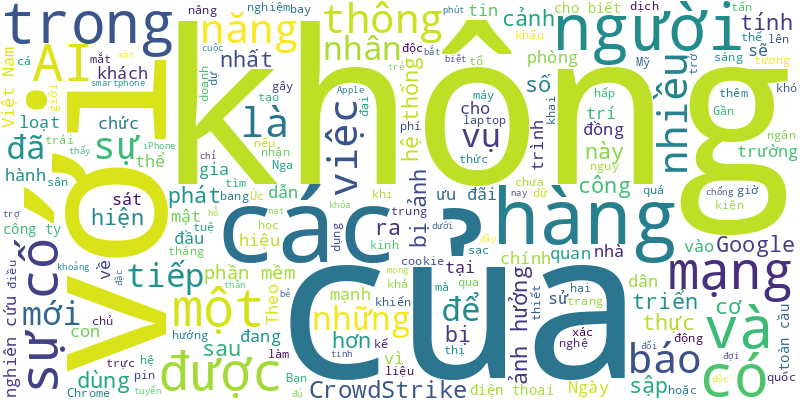
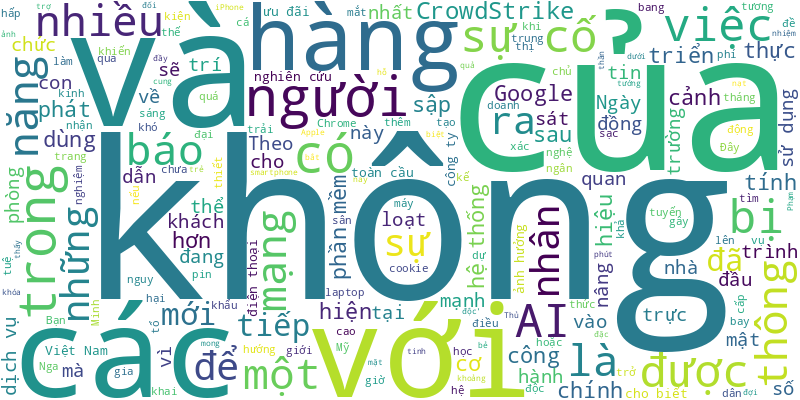
🍀 = 20%

diff --git a/README.md b/README.md
@@ -1,6 +1,14 @@
 # Tuoi Tre RSS 
 
 ## Giáo dục 
+- Từ nay đến năm 2030, Việt Nam sẽ đầu tư khoảng 26.000 tỉ đồng để đào tạo 50.000 kỹ sư bán dẫn. Và các trường đại học năm nay đồng loạt mở ngành thiết kế vi mạch, bán dẫn.
+- Những năm qua tại Đà Nẵng đã có hàng loạt ngôi trường mới có thiết kế đẹp ra đời. Những ngôi trường mang tính thẩm mỹ có tác dụng kích thích năng khiếu sáng tạo và cảm hứng học tập cho học sinh.
+- Ông Cao Thanh Bình, trưởng Ban Văn hóa xã hội (Hội đồng nhân dân TP.HCM), cho biết cơ quan này đã kết nối với cơ quan đồng cấp tại Hà Nội để phối hợp yêu cầu các cơ quan chức năng giải quyết cho bé N. đi học trở lại sau thời gian dài bé nghỉ học.
+- Các doanh nghiệp lĩnh vực vi mạch, bán dẫn trong khu vực đang có nhu cầu nhân lực rất lớn, nếu TP Đà Nẵng không có những chính sách thu hút nhân lực thì sẽ dễ chảy máu chất xám.
+- Nhiều cha mẹ hiện nay tư vấn chọn nghề cho con theo tiêu chí nghề nào giàu hơn, nghề nào tốt hơn. Theo GS Phan Văn Trường, đó là một sai lầm của cha mẹ khiến tương lai con cái nhiều bất ổn.
+- N.N.N. (ngụ quận 7, TP.HCM) năm nay gần 12 tuổi, đáng lẽ sẽ bước vào lớp 7 như hầu hết các bạn cùng trang lứa khác. Nhưng trước thềm năm học mới 2024-2025, N. tiếp tục có nguy cơ bị thất học vì… cha mẹ tranh chấp quyền nuôi con, 'giam' học bạ.
+- Một giảng viên Phổ thông Cao đẳng FPT Polytechnic, TP.HCM vừa bị buộc thôi việc vì có những lời nói không phù hợp với sinh viên.
+- 'Công ty chúng tôi đang thu hút nhân lực ngành bán dẫn ở nước ngoài, trong đó có Việt Nam đến làm việc', bà Lý Huệ Linh - phó tổng giám đốc phụ trách nhân sự Công ty Tekcore (Nam Đầu, Đài Loan), khẳng định.
 - Nước lũ vừa rút khỏi sân trường, các thầy cô nhanh chóng vào các vùng bị cô lập bằng bè mảng tự chế để dọn trường lớp, bếp ăn bán trú khi khai giảng sắp cận kề.
 - Tuyến đường ven biển Độc Lập, TP Tuy Hòa vừa được tỉnh Phú Yên quy hoạch với nhiều công trình điểm nhấn, không gian công cộng.
 - 'Nghe tin nước lũ dâng cao tới sân trường, cả đêm tôi không ngủ được. Hôm sau tới trường đã thấy nước lên cao gần nửa phòng học, tôi quyết định bơi vào trường kiểm tra từng phòng học xem có thể vớt vát gì không', thầy Việt kể lại.
@@ -23,48 +31,41 @@
 - Sở Giáo dục và Đào tạo Hà Nội công bố đề minh họa các môn thi vào lớp 10 năm học 2025-2026. Đây là kỳ thi tuyển sinh lớp 10 đầu tiên theo chương trình mới.
 - Ngày 29-8, ông Huỳnh Ngọc Nguyên - phó chủ tịch UBND huyện Vĩnh Thuận, tỉnh Kiên Giang - ký văn bản gửi Phòng Giáo dục và Đào tạo huyện về việc “khai giảng năm học mới và tổ chức giảng dạy, học tập của Trường THCS Thị Trấn”.
 - Dạy thêm, học thêm một khi trở thành nhu cầu thực tế thì mọi việc cấm đoán hay nới lỏng đều có thể mang lại những hệ quả tiêu cực.
-- TS Nguyễn Bá Cường - giám đốc Nhà xuất bản Đại học Sư phạm - đề xuất chính sách miễn học phí cho sinh viên ngành xuất bản, phát hành, thậm chí có phụ cấp như sinh viên sư phạm.
-- Đến tối 27-8, vẫn còn hơn 360 học sinh Trường Quốc tế Mỹ chưa chuyển trường trong số khoảng hơn 1.000 học sinh của trường này.
-- Lần đầu tiên, 400 sinh viên Trường đại học Văn Lang sẽ học thẩm định tin tức, nhiếp ảnh tại Tòa soạn báo Tuổi Trẻ.
-- Nhiều học sinh khối 10 Trường THPT chuyên Trần Đại Nghĩa đã "bất ngờ" với màn chào đón ấm áp, đầy trải nghiệm mà các học sinh khóa trên dành cho mình trong ngày đầu tựu trường.
-- Chương trình cử nhân ngành khoa học máy tính của Trường Đại học Quốc tế Sài Gòn (SIU) được Ủy ban kiểm định các chương trình máy tính (CAC) của ABET công nhận đạt kiểm định quốc tế.
-- Theo thống kê mới nhất, 20.000 trường mầm non ở nước này đã phải đóng cửa vì không có học sinh, khiến giới chức Trung Quốc đang “sốt vó” tìm kiếm giải pháp cấp bách khi lực lượng lao động giảm do tỉ lệ sinh giảm.
-- Nhiều ý kiến cho rằng học thêm là nhu cầu có thật của học sinh, nhưng không ít ý kiến nói khó kiểm soát tiêu cực khi ‘mở cửa’ dạy thêm.
-- Hiện toàn tỉnh Đồng Tháp còn thiếu hơn 1.300 giáo viên, thiếu nhiều nhất là giáo viên mầm non và tiểu học. Năm học này dự kiến miễn học phí cho học sinh mầm non, giảm 50% học phí cấp trung học cơ sở.
 ![Edu](Edu.png)
 ## Thời Sự 
-- Một căn nhà trên đường Quang Trung, quận Gò Vấp, TP.HCM bị cháy lúc rạng sáng 31-8. Ba người may mắn thoát nạn.
-- Một dự án đoạn cao tốc dài 15,3km nối TP.HCM và Bình Dương (trùng với đường Mỹ Phước - Tân Vạn) đang được kỳ vọng 'giải cứu' cho dự án vành đai 3 TP.HCM.
-- Từ 5h sáng nay (ngày 31-8), Chủ tịch UBND TP.HCM Phan Văn Mãi cùng 3.000 người dân TP.HCM đã tham gia chương trình đi bộ đồng hành đóng góp quỹ 'Vì người nghèo'.
-- Chung cư ở huyện Thanh Trì xảy ra cháy lúc nửa đêm. Công an Hà Nội đã điều động 6 xe cứu hỏa cùng hàng chục cảnh sát đến dập lửa, cứu nạn.
-- Nước lũ vừa rút khỏi sân trường, các thầy cô nhanh chóng vào các vùng bị cô lập bằng bè mảng tự chế để dọn trường lớp, bếp ăn bán trú khi khai giảng sắp cận kề.
-- Tin tức đáng chú ý: Sớm quyết định phương án đầu tư mở rộng đoạn cao tốc TP.HCM - Long Thành; Năm 2025 dự kiến Thừa Thiên Huế trở thành thành phố trực thuộc trung ương; Nghiên cứu sửa đổi Luật An toàn thực phẩm...
-- Dự báo hôm nay 31-8, thời tiết Bắc Bộ tiếp tục có mưa trong ngày, Trung Bộ nắng nóng giảm, Nam Bộ chiều mưa dông.
-- Văn phòng Chính phủ vừa có các văn bản giới thiệu chữ ký của ba tân phó thủ tướng Chính phủ: ông Nguyễn Hòa Bình, ông Hồ Đức Phớc và ông Bùi Thanh Sơn.
-- Lần đầu tiên Tỉnh ủy Khánh Hòa tổ chức hội nghị bàn về các vấn đề văn hóa của tỉnh với quy mô lớn, tổng kết 10 năm thực hiện nghị quyết số 33/NQ-TW, nhằm thực hiện mục tiêu xây dựng Khánh Hòa là nơi đáng sống.
-- Thủ tướng Phạm Minh Chính vừa ký công điện số 84 ngày 30-8 về tăng cường công tác bảo đảm an ninh, trật tự, an toàn giao thông, phòng cháy, chữa cháy và an toàn thực phẩm dịp nghỉ lễ Quốc khánh 2-9.
-- Diện tích toàn tỉnh Thừa Thiên Huế hiện hữu được công nhận đạt tiêu chí đô thị loại I, sẵn sàng để tiến lên trở thành thành phố trực thuộc trung ương trong tương lai.
-- Dịp nghỉ lễ Quốc khánh 2-9, thời tiết miền Bắc có mưa dông hai ngày đầu nghỉ lễ, Trung Bộ không còn nắng nóng, Tây Nguyên và Nam Bộ mưa dông vào chiều tối.
-- Nhân dịp chào mừng 79 năm Quốc khánh 2-9, Thảo cầm viên Sài Gòn (TP.HCM) tổ chức triển lãm ảnh Hướng về Trường Sa - Nhà giàn thân yêu.
-- Sở Giao thông vận tải TP.HCM vừa thông báo cấm xe tại hàng chục tuyến đường khu vực trung tâm phục vụ bắn pháo hoa đêm lễ 2-9.
-- Chiều tối 30-8, các cửa ngõ tại TP.HCM bắt đầu đông hơn vì nhiều người tranh thủ sau giờ làm để về quê, đi du lịch. Ngày mai bắt đầu lịch nghỉ lễ dịp 2-9.
-- Đắk Lắk giao doanh nghiệp 171ha rừng và đất lâm nghiệp để thực hiện dự án nuôi bò nhưng chuồng bò đang bỏ hoang, tình trạng mất rừng liên tục xảy ra.
-- Chủ đầu tư dự án du lịch Ninh Chữ Sailing Bay (Ninh Thuận) có tổng vốn đầu tư hơn 4.779 tỉ đồng vừa có công văn gửi Sở Kế hoạch và Đầu tư tỉnh đề nghị hướng dẫn thủ tục chấm dứt hoạt động dự án.
-- Ngày 30-8, Ủy ban Kiểm tra Tỉnh ủy Bình Thuận thông báo kết quả kỳ họp thứ 39 về việc xem xét, đề nghị thi hành kỷ luật ông Nguyễn Ngọc - cựu phó chủ tịch UBND tỉnh - cùng nhiều cựu cán bộ khác.
-- Ngay đầu giờ chiều 30-8, trời nắng nóng nhưng nhiều tuyến đường ở Hà Nội đã lâm vào cảnh ùn tắc kéo dài do người dân về quê, đi du lịch dịp nghỉ lễ.
-- Tỉnh Lâm Đồng ấn định 140 ngày tập trung tháo gỡ khó khăn, hoàn tất thủ tục đầu tư hai cao tốc Tân Phú - Bảo Lộc và Bảo Lộc - Liên Khương nối Đà Lạt đến TP.HCM.
-- Chuyến bay Vietjet Air, mang số hiệu VJ3321 đưa gần 300 khách Đài Loan đáp xuống sân bay quốc tế Phú Quốc chiều 30-8 để bắt đầu chuyến nghỉ lễ 2-9 ở hòn đảo xinh đẹp này.
-- Đường Hiệp Thành 43 ở quận 12, TP.HCM nhỏ hẹp, ngập nước nhiều năm nay đã hoàn thành nâng cấp, mở rộng, giúp việc đi lại của người dân thuận tiện hơn.
-- Liên quan vụ người phụ nữ tử vong vì tai nạn giao thông, trong máu có nồng độ cồn, tòa đã tuyên án người gây ra tai nạn.
-- Ông Nguyễn Huỳnh Đạt Nhân - giám đốc Công ty TNHH MTV nông thủy sản Tây Nam và một cựu cán bộ ngân hàng kháng cáo bản án của tòa Cần Thơ.
-- Tỉnh Lâm Đồng yêu cầu ngưng toàn bộ hoạt động sửa đường đến hết lễ Quốc khánh 2-9 để đảm bảo thuận lợi cho du khách đi du lịch.
-- Để giảm đi những tai nạn thương tâm, các trung tâm lái xe phải tăng cường dạy đạo đức cho người học.
-- Ngày 30-8, Ban Quản lý đường sắt đô thị TP.HCM cho biết các kỹ thuật viên lái tàu metro số 1 đã chạy thử nghiệm toàn tuyến.
-- Liên quan đến vụ nổ súng bắn hai vợ chồng ở Đồng Nai vào sáng 30-8 tại TP Biên Hòa, các bác sĩ cho hay người chồng đang trong tình trạng nguy kịch.
-- Cơ quan chức năng ghi nhận trên đèo Bảo Lộc (quốc lộ 20, đoạn qua tỉnh Lâm Đồng) có tình trạng đá lăn, chảy đất, tiềm ẩn sạt lở nguy hiểm.
-- Bà Sểnh Vlog (tên thật Triệu Thị L., 54 tuổi, ở thị trấn Lăng Can, huyện Lâm Bình, tỉnh Tuyên Quang) không may bị lũ cuốn tử vong sáng 30-8.
+- Từ ngày 1-9, chính thức áp dụng quy định mới về tạm ngừng lưu thông, phong tỏa, niêm phong, tạm giữ và xử lý với tiền, tài sản liên quan khủng bố, tài trợ khủng bố.
+- Nằm khiêm tốn sát đường ray và quốc lộ 1 ở phía bắc đèo Cả (thị xã Đông Hòa, tỉnh Phú Yên) có một tấm bia vừa phục dựng cách đây chưa lâu.
+- Đồng Tháp là một trong những tỉnh tiên phong trong lĩnh vực chuyển đổi số ở khu vực Đồng bằng sông Cửu Long, lấy chính quyền số, kinh tế số, xã hội số làm trụ cột.
+- UBND phường 2, TP Sóc Trăng quản lý 2 chợ là chợ phường 2 và chợ Khánh Hùng với tổng số 302 sạp và 51 ki ốt. Do quản lý lỏng lẻo nên để xảy ra nhiều sai phạm về tài chính.
+- Hôm nay 1-9, thời tiết cả nước đều có mưa, có nơi mưa vừa, mưa to đến rất to. Vài nơi hửng nắng thời gian ngắn trong ngày.
+- Ghen tuông vì bạn gái đi sống với người đàn ông khác, Nguyễn Văn Linh cùng ba đồng phạm bàn bạc nhét ma túy vào cốp xe máy của tình địch nhằm "đẩy" anh này vào tù.
+- Quỹ Giải thưởng Ramon Magsaysay vừa công bố GS Nguyễn Thị Ngọc Phượng là một trong năm chủ nhân của mùa giải năm 2024.
+- Ủy ban An toàn giao thông quốc gia đánh giá nguyên nhân ùn tắc tại cửa ngõ hai thành phố lớn trong ngày đầu nghỉ lễ là do lưu lượng tham gia giao thông tăng đột biến, vượt quá năng lực của hệ thống kết cấu hạ tầng.
+- Ngày 31-8, Công an tỉnh Tây Ninh có quyết định khởi tố vụ án, khởi tố bắt tạm giam 45 bị can liên quan đến vụ dùng súng, cây chĩa 3 răng giải quyết mâu thuẫn gây chết người.
+- Chiều 31-8, lượng xe cộ di chuyển trên đường Nguyễn Thị Định vào cảng và phà Cát Lái đông đúc nên xảy ra tình trạng ùn ứ, lực lượng cảnh sát giao thông phải 'căng mình' phân luồng giao thông.
+- Do ảnh hưởng của triều cường dâng cao kết hợp mưa nhiều khiến bờ sông ở tỉnh Bến Tre liên tục bị sạt lở, ảnh hưởng đến cuộc sống người dân.
+- Thanh tra TP Cần Thơ không tiếp tục thực hiện kết luận của chính mình ban hành 7 năm trước, tức sẽ không thu hồi 10 giấy chứng nhận được cấp trái pháp luật.
+- Chiều 31-8, TP Đà Nẵng tổ chức hội nghị quán triệt, triển khai nghị quyết 136 của Quốc hội về tổ chức chính quyền đô thị và thí điểm một số cơ chế, chính sách đặc thù phát triển TP Đà Nẵng.
+- Đẩy nhanh việc cấp giấy phép khai thác thủy sản cho tàu cá “3 không” nhằm góp phần chống khai thác thủy sản bất hợp pháp (IUU), gỡ thẻ vàng EC.
+- Chủ tịch HĐND huyện Long Mỹ bị kỷ luật do vi phạm về đất đai, xây dựng, đồng thời vi phạm về những điều Đảng viên không được làm và trách nhiệm nêu gương.
+- Sau cú tông mạnh vào hộ lan đường Mai Chí Thọ (TP Thủ Đức), chiếc “siêu xe” (ô tô hiệu Maserati Levante) tiếp tục văng xa vài chục mét. Bánh xe cùng nhiều bộ phận khác của xe vương vãi khắp nơi.
+- Đến ngày thứ năm sau phẫu thuật, nam bệnh nhân 37 tuổi, người được ghép tim từ trái tim hiến tặng của "chàng trai Hà Nội" N.Đ.T. đã có thể đứng thẳng, tự ăn cháo và trò chuyện vui vẻ với mọi người.
+- Bộ Giao thông vận tải đang lấy ý kiến dự thảo thông tư mới trong đó có quy định về tải trọng, khổ giới hạn của đường bộ.
+- Sáng 31-8, mặt đường cầu vượt Nguyễn Hữu Cảnh (quận Bình Thạnh, TP.HCM) bị đọng nước cục bộ. Vị trí này nằm ngay nhịp chính giữa, nơi từng gặp sự cố đứt cáp dự ứng lực 2 năm trước.
+- Tàu SE2 hành trình từ Nam ra Bắc khi đến đoạn đường sắt thuộc huyện Phú Lộc, Thừa Thiên Huế lại trật bánh.
+- Bác sĩ Bệnh viện Đa khoa quốc tế Vinmec Phú Quốc vừa kịp thời mổ, cứu thành công một bệnh nhân nam bị tai nạn giao thông làm vỡ gan, máu tràn đầy ổ bụng và nguy cơ tử vong cao.
+- Tập đoàn Đức Long Gia Lai cho hay chưa thu lợi đồng nào từ dự án trồng cao su trên hàng trăm ha đất rừng mà Thanh tra Chính phủ vừa yêu cầu thu hồi đất.
+- Đường vành đai 4 TP.HCM dài 207km qua 5 tỉnh thành của vùng Đông Nam Bộ có tầm quan trọng đặc biệt trong việc kết nối giao thông và phát triển kinh tế.
+- Đây là một trong những nhiệm vụ mà Thủ tướng Phạm Minh Chính đề ra trong việc nâng cao hiệu quả cung cấp và sử dụng dịch vụ công trực tuyến.
+- Để người dân hiểu rõ hơn về ngày Quốc khánh 2-9, bộ đội biên phòng mang những lá cờ đỏ thắm xuống các buôn làng tặng bà con. Các điểm du lịch cũng tặng du khách mũ in hình cờ đỏ sao vàng...
+- Cao tốc TP.HCM - Mộc Bài có quy mô lần lượt 4 và 6 làn xe với các nút giao, cầu vượt, đường gom dân sinh hiện đại, khang trang.
+- Sáng 31-8, UBND tỉnh Bình Định tổ chức lễ khánh thành tuyến đường kết nối đường ven biển (ĐT639) với tổng vốn đầu tư 786 tỉ đồng trên địa bàn thị xã Hoài Nhơn.
+- Thời gian tới Bến Tre sẽ có cầu Cửa Đại kết nối với Tiền Giang, cầu Cổ Chiên 2 kết nối với Trà Vinh và cầu Đình Khao kết nối với tỉnh Vĩnh Long.
+- Từ đầu năm đến nay, cả nước xảy ra hơn 16.000 vụ tai nạn giao thông khiến hơn 7.000 người chết và hơn 12.000 người bị thương.
+- Sau hai cuộc nhậu, men lú cả người, L.T.Ơ. 'nổi hứng' chê vợ bạn nhậu già, xấu quá. Từ đây xảy ra cự cãi và mâu thuẫn nối tiếp, Ơ. bị bạn nhậu chém suýt chết.
 ![New](News.png)
 ## Nhịp sống số 
+- Đây là một trong những nhiệm vụ mà Thủ tướng Phạm Minh Chính đề ra trong việc nâng cao hiệu quả cung cấp và sử dụng dịch vụ công trực tuyến.
 - Apple chính thức thông báo sẽ tổ chức sự kiện ra mắt iPhone 16, một trong những sự kiện công nghệ được mong đợi nhất hành tinh, vào ngày 9-9.
 - Nhiều nghiên cứu cho thấy trẻ dùng smartphone đối mặt nhiều nguy cơ, đặc biệt là chức năng thần kinh bị ảnh hưởng, bị 'đầu độc' và bắt nạt trực tuyến...
 - Bạn có tin được không: khoảng 61% mật khẩu hiện nay có thể bị bẻ khóa trong chưa đầy một phút dưới sự hỗ trợ của trí tuệ nhân tạo (AI), trong khi chỉ có 7% mật khẩu đủ mạnh để phòng chống các cuộc tấn công lâu dài.
@@ -94,5 +95,4 @@
 - Cơ quan tình báo mạng của Úc cảnh báo một số trang web độc hại và mã không chính thức đang được phát tán sau sự cố sập dịch vụ đám mây của Microsoft.
 - Công ty phần mềm an ninh mạng CrowdStrike thông báo đã tìm được nguyên nhân vụ sập hệ thống máy tính toàn cầu.
 - Thực hiện chủ trương tắt sóng 2G của Bộ Thông tin và Truyền thông vào tháng 9-2024, VinaPhone triển khai loạt ưu đãi khách hàng nâng cấp lên điện thoại 4G miễn phí và nhiều ưu đãi hấp dẫn khác để duy trì liên lạc mà không phải lo lắng về chi phí.
-- Với gần một nửa dân số Úc bị ảnh hưởng, vụ tấn công mạng MediSecure là một trong những vụ xâm phạm dữ liệu lớn nhất trong lịch sử quốc gia này.
 ![life](Life.png)
